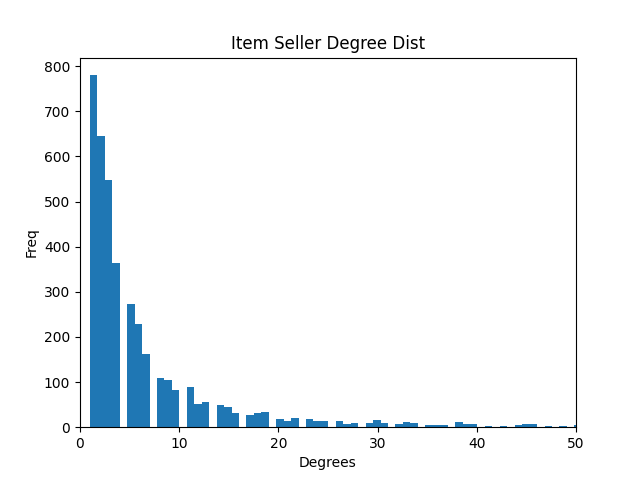
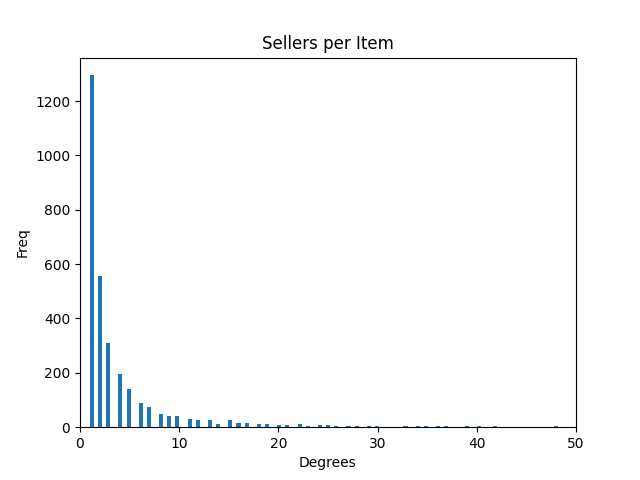
Corrected eda functionality for bipartitie graphs

diff --git a/eda.py b/eda.py
@@ -5,27 +5,33 @@ github:sanidhyamangal
 
 import matplotlib.pyplot as plt  # for plotting
 import networkx as nx
+from networkx.algorithms import bipartite
 
-from analytics.utils import load_dataset, plot_degree_dist
+from analytics.utils import load_dataset, plot_degree_dist, create_degree_list
 
 df_ebid = load_dataset("data/ebid_buyer_item_seller_id_R_2.txt")
+deg_bi_buyer, deg_bi_item = create_degree_list(df_ebid, "buyer", "item")
+deg_is_item, deg_is_seller = create_degree_list(df_ebid, "item", "seller")
+deg_bs_buyer, deg_bs_seller = create_degree_list(df_ebid, "buyer", "seller")
 
-G_bi = nx.from_pandas_edgelist(df_ebid, "buyer", "item")
-G_is = nx.from_pandas_edgelist(df_ebid, "item", "seller")
-G_bs = nx.from_pandas_edgelist(df_ebid, "buyer", "seller")
 
-plot_degree_dist(G_is, "ebid_item_seller_deg.png", "Item Seller Degree Dist")
-plot_degree_dist(G_bi, "ebid_buyer_item_deg.png", "Buyer Item Degree Dist")
-plot_degree_dist(G_bs, "ebid_buyer_seller_deg.png", "Buyer Seller Degree Dist")
+plot_degree_dist(deg_bi_buyer, "plots/ebid_buyer_item_deg.png", "Items per Buyer")
+plot_degree_dist(deg_bi_item, "plots/ebid_item_buyer_deg.png", "Buyers per Item")
+plot_degree_dist(deg_is_item, "plots/ebid_item_seller_deg.png", "Sellers per Item")
+plot_degree_dist(deg_is_seller, "plots/ebid_seller_item_deg.png", "Items per Seller")
+plot_degree_dist(deg_bs_buyer, "plots/ebid_buyer_seller_deg.png", "Sellers per Buyer")
+plot_degree_dist(deg_bs_seller, "plots/ebid_seller_buyer_deg.png", "Buyers per Seller")
 
 df_bonanza = load_dataset("data/bonanza_buyer_item_seller_id_R_2.txt")
 
-G_bi = nx.from_pandas_edgelist(df_bonanza, "buyer", "item")
-G_is = nx.from_pandas_edgelist(df_bonanza, "item", "seller")
-G_bs = nx.from_pandas_edgelist(df_bonanza, "buyer", "seller")
+deg_bi_buyer, deg_bi_item = create_degree_list(df_bonanza, "buyer", "item")
+deg_is_item, deg_is_seller = create_degree_list(df_bonanza, "item", "seller")
+deg_bs_buyer, deg_bs_seller = create_degree_list(df_bonanza, "buyer", "seller")
 
-plot_degree_dist(G_is, "bonanza_item_seller_deg.png",
-                 "Item Seller Degree Dist")
-plot_degree_dist(G_bi, "bonanza_buyer_item_deg.png", "Buyer Item Degree Dist")
-plot_degree_dist(G_bs, "bonanza_buyer_seller_deg.png",
-                 "Buyer Seller Degree Dist")
+
+plot_degree_dist(deg_bi_buyer, "plots/bonanza_buyer_item_deg.png", "Items per Buyer")
+plot_degree_dist(deg_bi_item, "plots/bonanza_item_buyer_deg.png", "Buyers per Item")
+plot_degree_dist(deg_is_item, "plots/bonanza_item_seller_deg.png", "Sellers per Item")
+plot_degree_dist(deg_is_seller, "plots/bonanza_seller_item_deg.png", "Items per Seller")
+plot_degree_dist(deg_bs_buyer, "plots/bonanza_buyer_seller_deg.png", "Sellers per Buyer")
+plot_degree_dist(deg_bs_seller, "plots/bonanza_seller_buyer_deg.png", "Buyers per Seller")

diff --git a/analytics/utils.py b/analytics/utils.py
@@ -8,26 +8,46 @@ from typing import Tuple
 import matplotlib.pyplot as plt  # for plotting
 import pandas as pd  # for dataframe based loading
 
+import networkx as nx
+from networkx.algorithms import bipartite
+
 
 def load_dataset(file_path: str):
     # data = np.loadtxt(file_path, sep="::")
     df = pd.read_csv(file_path,
                      sep="::",
                      header=None,
-                     names=["buyer", "item", "seller", "timestamp"])
+                     names=["buyer", "item", "seller", "timestamp"], engine='python')
     df['timestamp'] = df['timestamp'].apply(
         lambda x: datetime.fromtimestamp(x).strftime("%Y-%m-%d"))
 
     return df
 
+def create_degree_list(df, col1, col2):
+    G_bi = nx.Graph()
+    # a and b added to add unique node values
+    left_nodes = df[col1].astype(str) + 'a'
+    right_nodes = df[col2].astype(str) + 'b'
+    G_bi.add_nodes_from(left_nodes, bipartite=0)
+    G_bi.add_nodes_from(right_nodes, bipartite=1)
+    G_bi.add_edges_from([(left_nodes[idx], right_nodes[idx]) for idx, row in df.iterrows()])
+    top_nodes = {n for n, d in G_bi.nodes(data=True) if d["bipartite"] == 0}
+    bottom_nodes = set(G_bi) - top_nodes
+    # print(len(top_nodes))
+    # print(len(bottom_nodes))
+    deg_X, deg_Y = bipartite.degrees(G_bi, bottom_nodes)
+    # print(len(deg_X))
 
-def plot_degree_dist(graph,
+    return list(dict(deg_X).values()), list(dict(deg_Y).values())
+
+
+def plot_degree_dist(degrees,
                      plot_path: str,
                      plot_name: str,
                      xlim: Tuple[int] = (0, 50)):
-    degrees = [graph.degree(n) for n in graph.nodes()]
+    # degrees = [graph.degree(n) for n in graph.nodes()]
 
-    plt.hist(degrees, bins="auto")
+    plt.hist(degrees, bins='auto')
     plt.xlim(*xlim)
     plt.xlabel("Degrees")
     plt.ylabel("Freq")

diff --git a/dataloader/utils.py b/dataloader/utils.py
@@ -65,6 +65,21 @@ def generate_model_data(dataframe: pd.DataFrame,
                     flat_list=True)
     save_data_files(item_suplier_map, f"{file_dir}/item_suplier_map.csv")
 
+def get_transformed_dataframe(dataframe: pd.DataFrame,
+                        file_dir: str,
+                        test_size: float = 0.2) -> None:
+    item_suplier_map = dict()
+    create_subfolders_if_not(file_dir, dir_struct=True)
+
+    for idx, row in dataframe.groupby(['item', 'seller'
+                                       ]).size().reset_index().iterrows():
+        if not item_suplier_map.get((row['item'], row['seller'])):
+            item_suplier_map[(row['item'], row['seller'])] = idx
+
+    user_item = process_dataframe(dataframe, item_suplier_map)
+
+
+
 
 def process_dataframe(dataframe: pd.DataFrame, item_suplier_map: dict):
     user_item = defaultdict(list)
